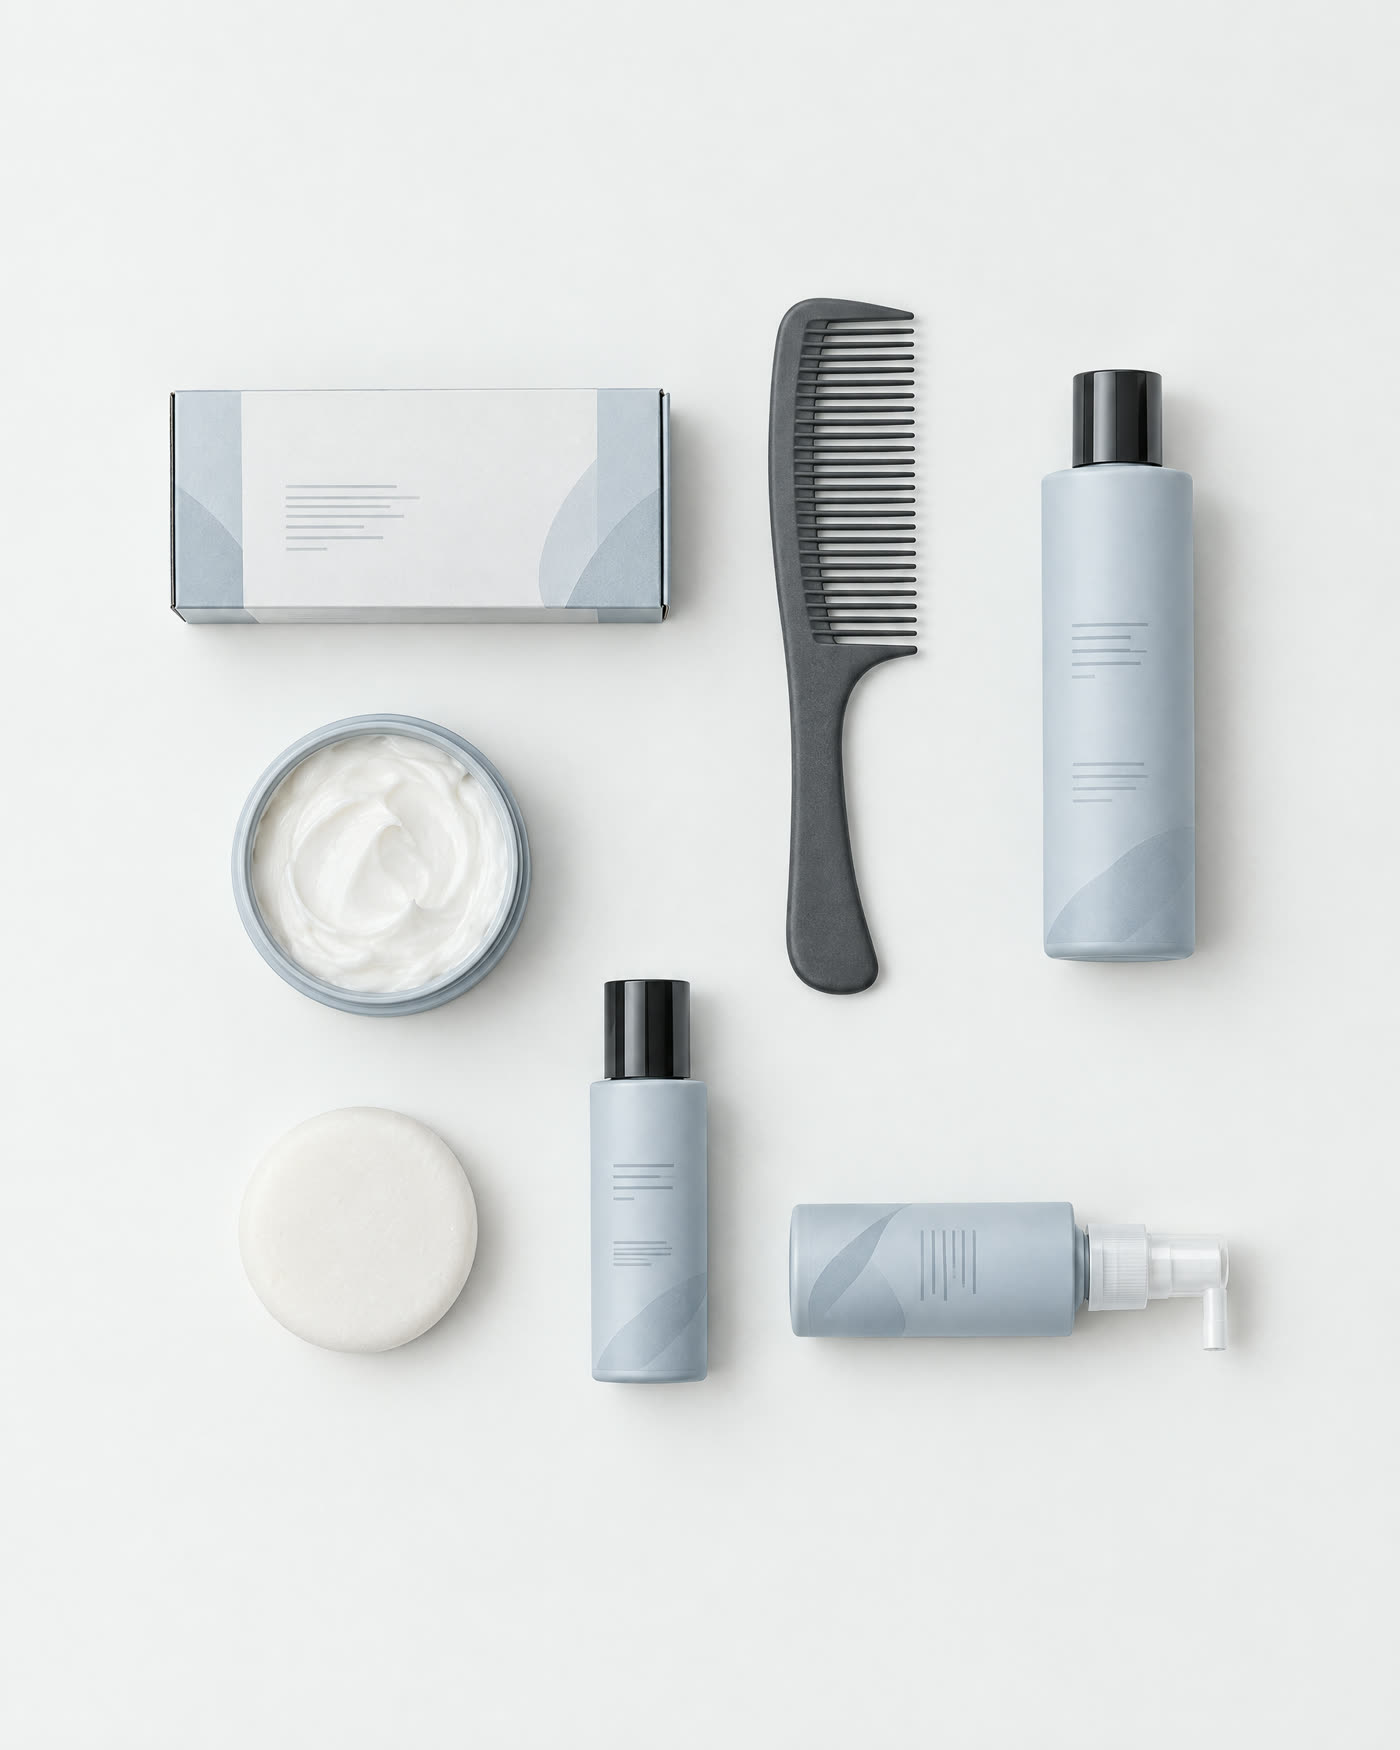
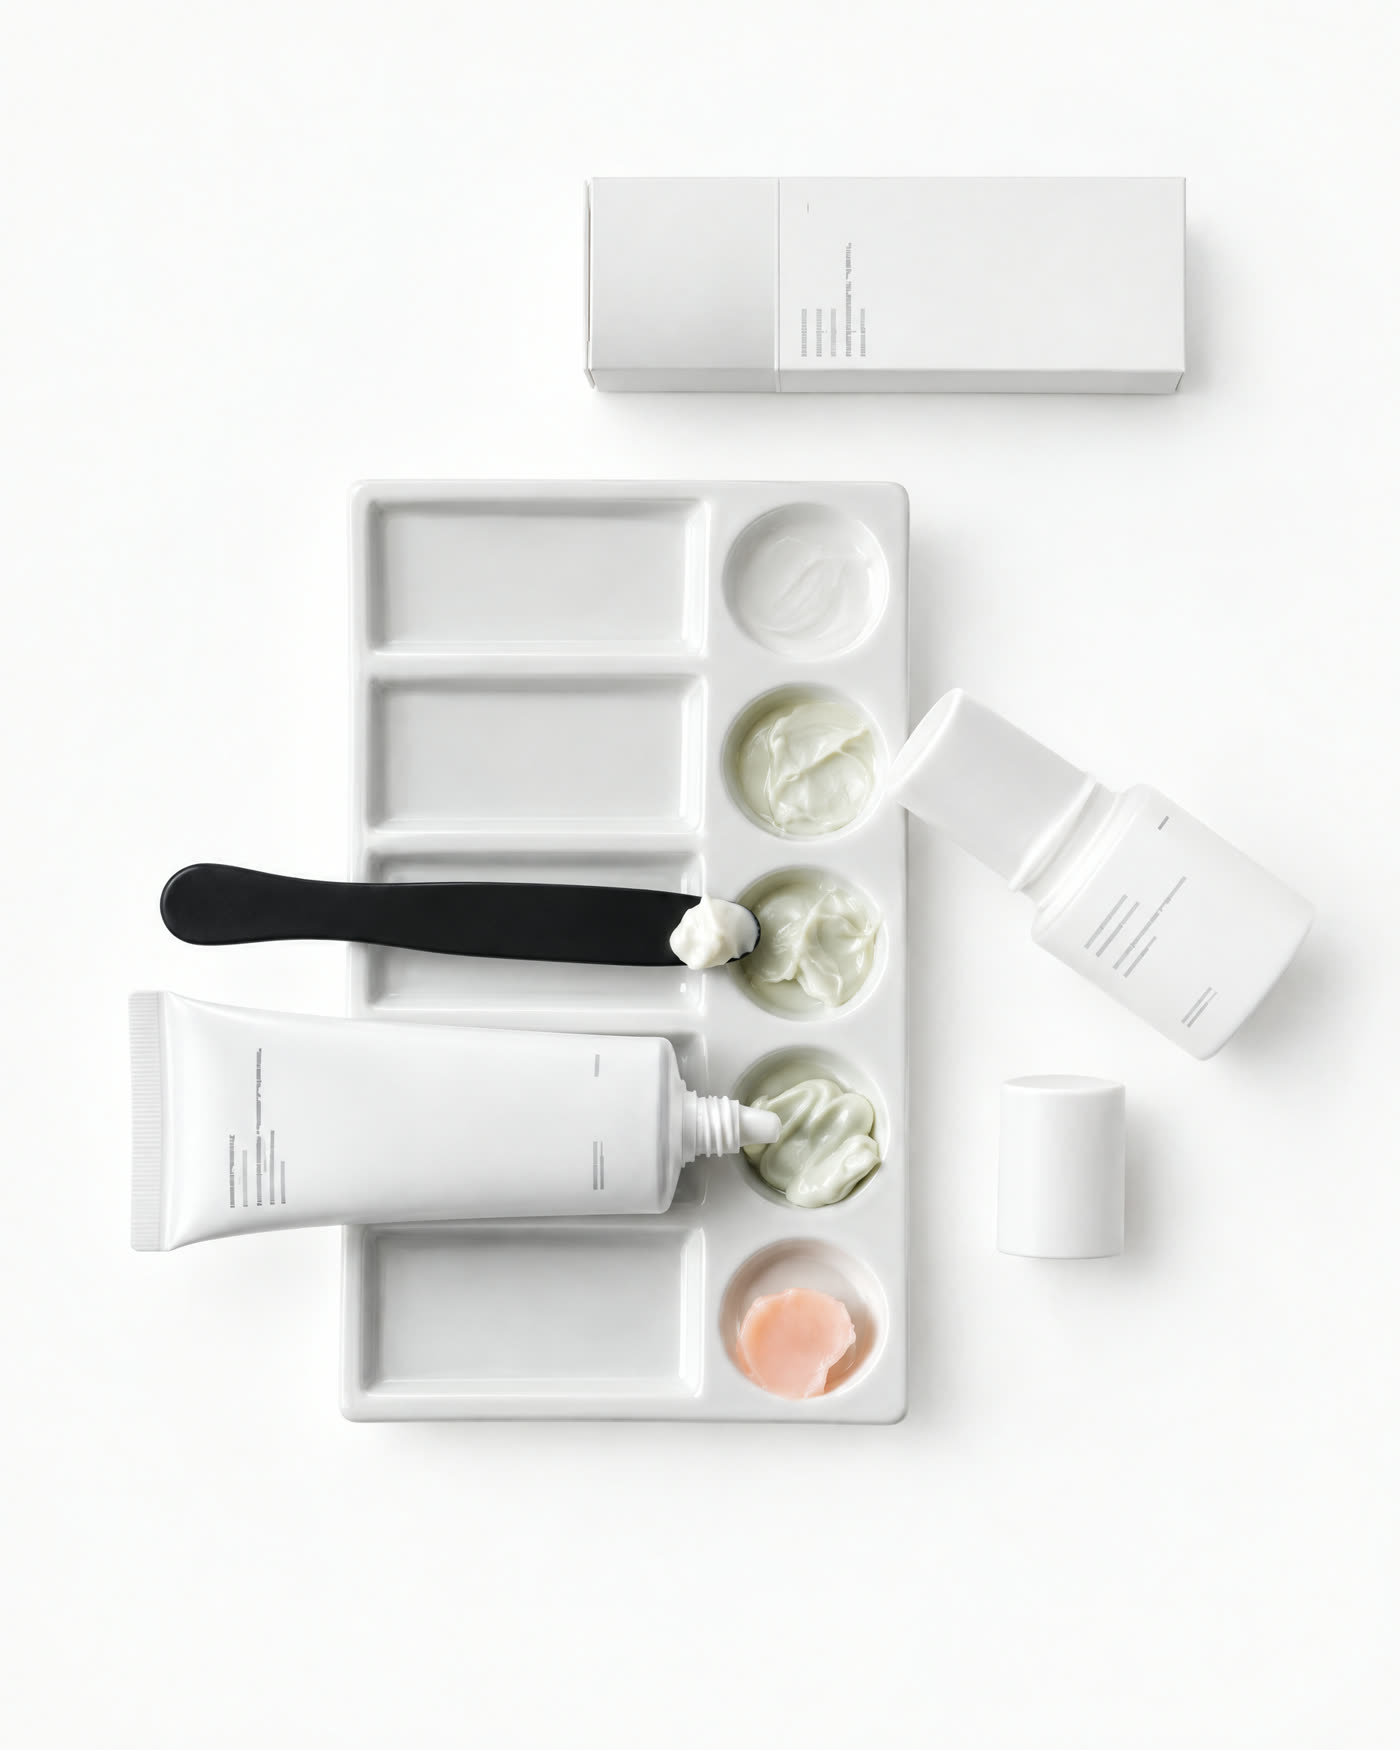
Brand Workshop: new pictures for range and website modules; no sizes in copy

Changed region(s): [[0.0921, 0.1543, 0.9521, 0.8331]]

diff --git a/services/brand-workshop/index.html b/services/brand-workshop/index.html
@@ -135,7 +135,7 @@ section { margin-top: 88px; }
       <h2 class="h">Six modules</h2>
       <div class="mods">
         <article class="mod">
-          <figure><img src="/assets/img/brand-workshop/range.jpg" width="1400" height="1750" loading="lazy" alt="A planned range laid flat: bottles, a carton, a jar of cream, a bar and a comb"></figure>
+          <figure><img src="/assets/img/brand-workshop/range.jpg" width="1400" height="1750" loading="lazy" alt="A porcelain palette of cream swatches with a spatula, a tube and a bottle, seen from above"></figure>
           <div class="txt"><span class="n">01</span><h3>Range planning</h3>
             <dl><dt>What we do</dt><dd>Who it’s for, price point, product types and launch order.</dd><dt>What you get</dt><dd>A range plan: products, sizes and priority.</dd></dl></div>
         </article>
@@ -153,10 +153,10 @@ section { margin-top: 88px; }
           <figure><img src="/assets/img/brand-workshop/spec.jpg" width="1400" height="1750" loading="lazy" alt="A ring-bound packaging spec: a carton dieline with ink swatches and a tube drawn with dimensions"></figure>
           <div class="txt"><span class="n">04</span><h3>Packaging</h3>
             <dl><dt>What we do</dt><dd>Bottles, labels and cartons, sourced and print-managed.</dd><dt>What you get</dt><dd>Print-ready files, pack samples and a quote.</dd></dl>
-            <dl class="spec mono"><dt>Carton</dt><dd>24.5 × 24.5 × 101 mm</dd><dt>Tube</dt><dd>30 × 19 × 100 mm · 12 ml</dd><dt>Finish</dt><dd>Matte, blind emboss</dd><dt>Inks</dt><dd>Warm Gray 1C · 11C</dd></dl></div>
+            <dl class="spec mono"><dt>Finish</dt><dd>Matte, blind emboss</dd><dt>Inks</dt><dd>Warm Gray 1C · 11C</dd></dl></div>
         </article>
         <article class="mod">
-          <figure><img src="/assets/img/brand-workshop/website.jpg" width="1400" height="1750" loading="lazy" alt="A laptop and phone showing a light, minimal skincare shop"></figure>
+          <figure><img src="/assets/img/brand-workshop/website.jpg" width="1400" height="1750" loading="lazy" alt="A tablet on a wall of storage crates showing an order dashboard: picking, packing, dispatch"></figure>
           <div class="txt"><span class="n">05</span><h3>Website &amp; content</h3>
             <dl><dt>What we do</dt><dd>Brand story, product pages and a shop.</dd><dt>What you get</dt><dd>A working website, handed over.</dd></dl></div>
         </article>
